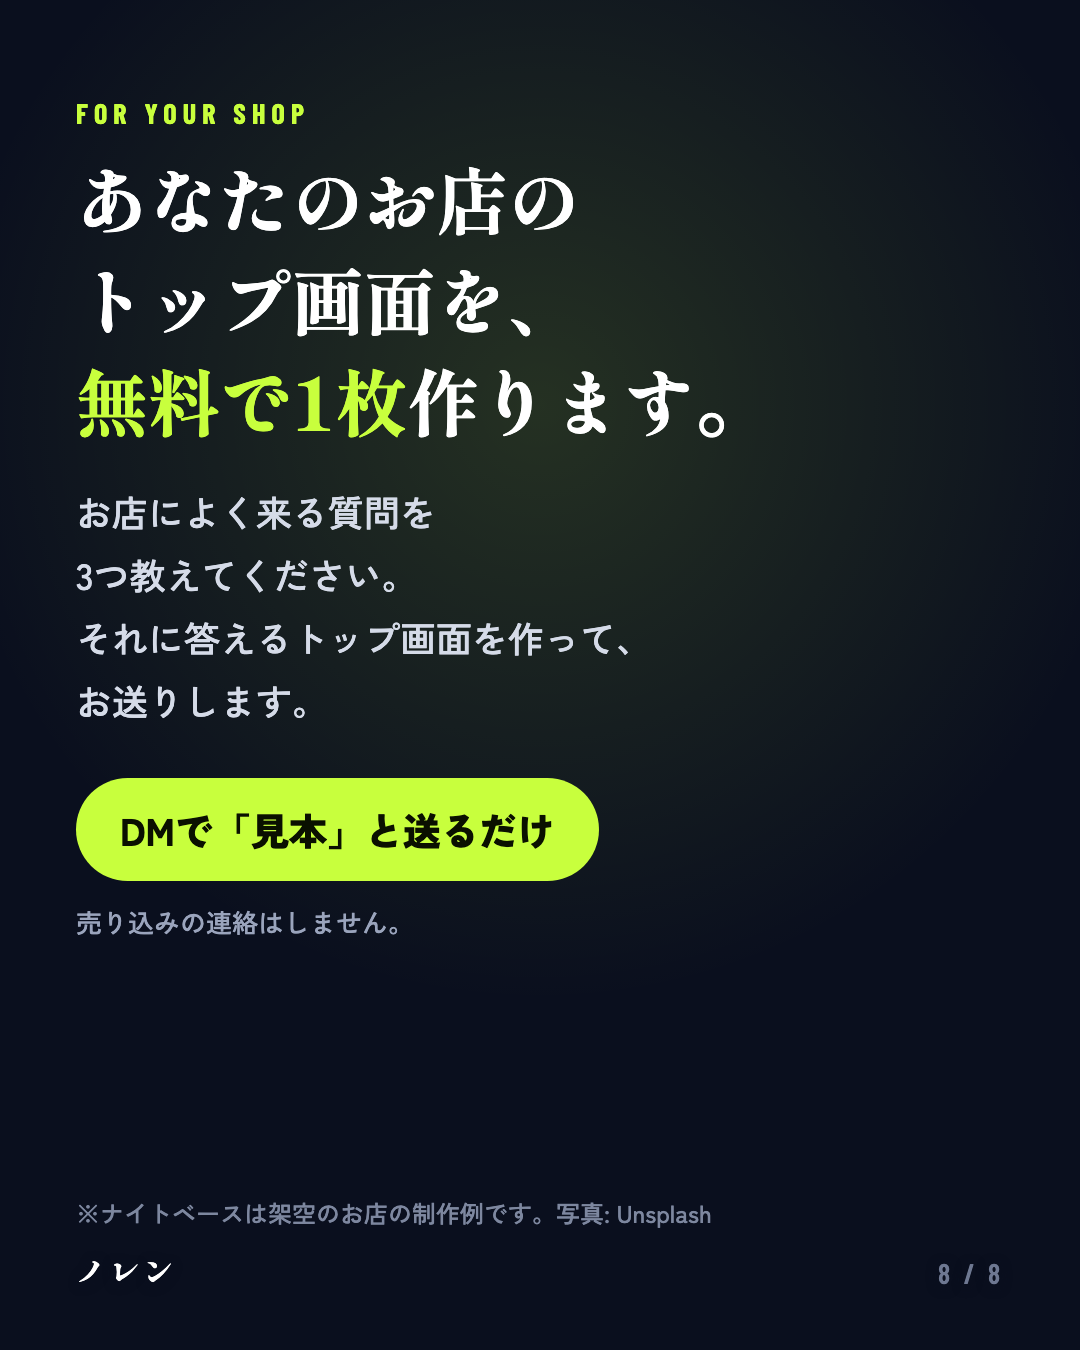
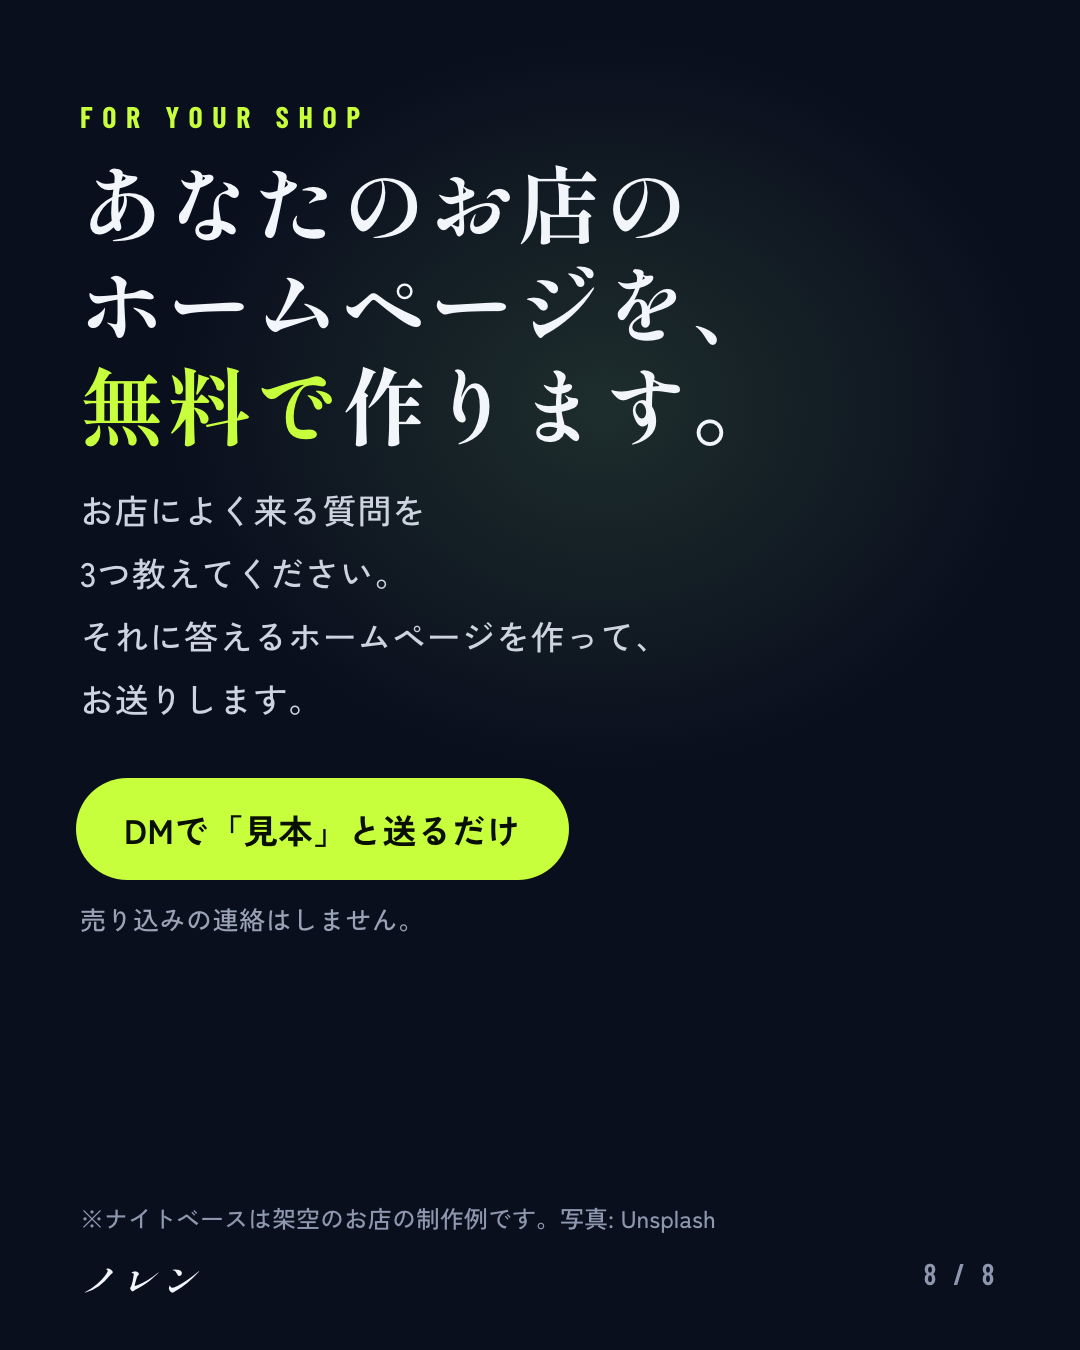
ナイトベース投稿: 8枚目を「ホームページを無料で作ります」に変更(生成元HTMLを追加)、ひいらぎ投稿案も同じ導線に

diff --git a/works/2026-10-05_gym-nightbase/instagram/slide08_生成元.html b/works/2026-10-05_gym-nightbase/instagram/slide08_生成元.html
@@ -1,0 +1,30 @@
+<!DOCTYPE html><html lang="ja"><head><meta charset="UTF-8">
+<link rel="preconnect" href="https://fonts.gstatic.com" crossorigin>
+<link href="https://fonts.googleapis.com/css2?family=Shippori+Mincho:wght@700&family=Zen+Kaku+Gothic+New:wght@500;700&family=Barlow+Condensed:wght@600;700&display=swap" rel="stylesheet">
+<style>
+html,body{margin:0;width:1080px;height:1350px;overflow:hidden}
+body{background:#0A0F1E;color:#F2F5FA;font-family:"Zen Kaku Gothic New",sans-serif;position:relative;-webkit-font-smoothing:antialiased}
+.glow{position:absolute;inset:0;background:radial-gradient(ellipse 620px 520px at 56% 30%,rgba(46,70,56,.55),rgba(46,70,56,0) 70%)}
+.in{position:absolute;left:80px;right:80px;top:0;bottom:0}
+.eyebrow{position:absolute;top:98px;font-family:"Barlow Condensed",sans-serif;font-weight:700;font-size:30px;letter-spacing:.32em;color:#C8FF3D}
+h1{position:absolute;top:150px;margin:0;font-family:"Shippori Mincho",serif;font-weight:700;font-size:84px;line-height:101px;letter-spacing:.04em}
+h1 em{font-style:normal;color:#C8FF3D}
+p.body{position:absolute;top:478px;margin:0;font-size:34px;font-weight:500;line-height:63px;color:#CDD4E0;letter-spacing:.02em}
+.btn{position:absolute;top:778px;left:-4px;height:102px;padding:0 48px;border-radius:999px;background:#C8FF3D;color:#0A1000;font-weight:700;font-size:34px;display:flex;align-items:center;letter-spacing:.02em}
+.note{position:absolute;top:900px;font-size:26px;color:#9AA3B5;letter-spacing:.02em}
+.foot{position:absolute;top:1200px;font-size:24px;color:#8D97AE}
+.logo{position:absolute;top:1252px;font-family:"Shippori Mincho",serif;font-weight:700;font-style:italic;font-size:36px;letter-spacing:.12em}
+.pg{position:absolute;top:1255px;right:0;font-family:"Barlow Condensed",sans-serif;font-weight:600;font-size:30px;letter-spacing:.18em;color:#8D97AE}
+</style></head><body>
+<div class="glow"></div>
+<div class="in">
+  <div class="eyebrow">FOR YOUR SHOP</div>
+  <h1>あなたのお店の<br>ホームページを、<br><em>無料で</em>作ります。</h1>
+  <p class="body">お店によく来る質問を<br>3つ教えてください。<br>それに答えるホームページを作って、<br>お送りします。</p>
+  <div class="btn">DMで「見本」と送るだけ</div>
+  <div class="note">売り込みの連絡はしません。</div>
+  <div class="foot">※ナイトベースは架空のお店の制作例です。写真: Unsplash</div>
+  <div class="logo">ノレン</div>
+  <div class="pg">8 / 8</div>
+</div>
+</body></html>

diff --git a/works/2026-10-05_gym-nightbase/投稿.md b/works/2026-10-05_gym-nightbase/投稿.md
@@ -10,7 +10,7 @@
 - 見せる機能は納品できるものだけ(混雑表示は「スタッフがボタンで切り替え」の形で提案)。
 - 3〜6枚目は説明を削り、質問と一言だけ。答えはサイトの画面そのもので見せる(2026-10-08 CEO「説明ちっくすぎる、成果物で見せたい」)。
 - 7枚目で店主が今日できることを渡す(保存される理由)。
-- 最後は低いハードル: 「トップ画面を無料で1枚作ります/DMで『見本』と送るだけ」。
+- 最後のオファー: 「あなたのお店のホームページを、無料で作ります/DMで『見本』と送るだけ」(2026-10-11 CEO決定。トップ画面1枚 → ホームページ丸ごとに変更)。
 
 ## カルーセル(8枚)
 1. DMの吹き出し3つ(夜って怖くない？/今って混んでる？/月いくら？)→「同じ質問に、今日も答えていませんか？」
@@ -20,7 +20,7 @@
 5. 「今って、混んでる？」→「いま 23:12 空いています」と混雑グラフの画面 →「開いた瞬間に。」
 6. 「月いくら？」→ 料金セクションの画面 →「最初に、3つだけ。」
 7. 今日からできること(よく来る質問を3つ書き出す/答えをいちばん上に書く/答えは数字で)
-8. あなたのお店のトップ画面を無料で1枚作ります。DMで「見本」と送るだけ。売り込みの連絡はしません
+8. あなたのお店のホームページを、無料で作ります。DMで「見本」と送るだけ。売り込みの連絡はしません(生成元: instagram/slide08_生成元.html)
 
 ## キャプション
 「夜って怖くないですか？」
@@ -41,7 +41,7 @@
 
 今日からできることは7枚目にまとめました。保存して、手が空いたときにどうぞ。
 
-あなたのお店のトップ画面を、無料で1枚作ります。
+あなたのお店のホームページを、無料で作ります。
 よく来る質問を3つ、DMで「見本」と一緒に送ってください。売り込みの連絡はしません。
 
 ※ナイトベースは架空のお店の制作例です。写真: Unsplash
@@ -53,6 +53,7 @@
 ## 測ること(投稿後7日)
 保存数・保存率(保存÷リーチ)/プロフィールアクセス/「見本」のDM数。次の投稿の見せ方の判断に使う。
 
-## 無料見本の運用メモ
-- 受けたら: 店名・業種・よく来る質問3つを聞く → トップ画面1枚(ファーストビュー)を作って画像で送る → こちらから追いかけの営業はしない(約束)。
+## 無料ホームページの運用メモ(2026-10-11 変更)
+- 受けたら: 店名・業種・よく来る質問3つを聞く → 1ページのホームページ(works の型・写真つき)を作って URL で送る → こちらから追いかけの営業はしない(約束)。
+- 公開先・ドメイン・写真差し替え・更新は有料メニューにつなぐ(料金表_たたき台.md を参照)。条件(先着数・掲載許可)は CEO が決める。
 - 1件あたりの作業時間を記録する(サービス化・料金決めの材料)。

diff --git a/works/2026-10-13_izakaya-hiiragi/投稿.md b/works/2026-10-13_izakaya-hiiragi/投稿.md
@@ -10,7 +10,7 @@
 5. 「今日のおすすめは？」→ 今夜の黒板(短冊5枚・日付入り)の画面 →「毎日3分で書き換え。」
 6. 「満席だったら？」→ コピーが「今夜は、満席です。」ボタンが「明日の席を確保する」に変わる画面 →「言葉まで変わる。」
 7. 今日からできること(よく来る電話を3つ書き出す/答えをサイトの一番上に書く/更新した時刻を添える)
-8. あなたのお店のトップ画面を無料で1枚作ります。DMで「見本」と送るだけ。売り込みの連絡はしません
+8. あなたのお店のホームページを、無料で作ります。DMで「見本」と送るだけ。売り込みの連絡はしません
 
 ## キャプション
 「今日、空いてる？」
@@ -31,7 +31,7 @@
 
 今日からできることは7枚目にまとめました。保存して、仕込みの合間にどうぞ。
 
-あなたのお店のトップ画面を、無料で1枚作ります。
+あなたのお店のホームページを、無料で作ります。
 よく来る電話を3つ、DMで「見本」と一緒に送ってください。売り込みの連絡はしません。
 
 ※ひいらぎは架空のお店の制作例です。写真: Unsplash
